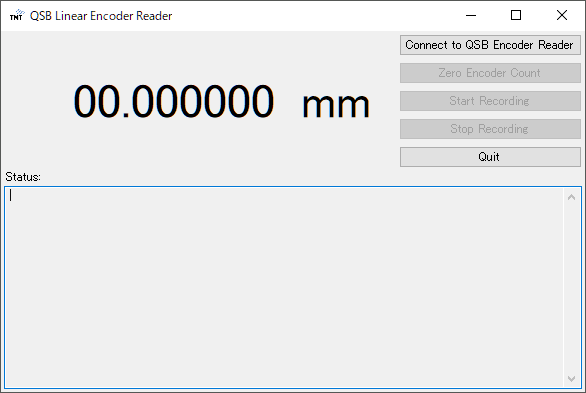
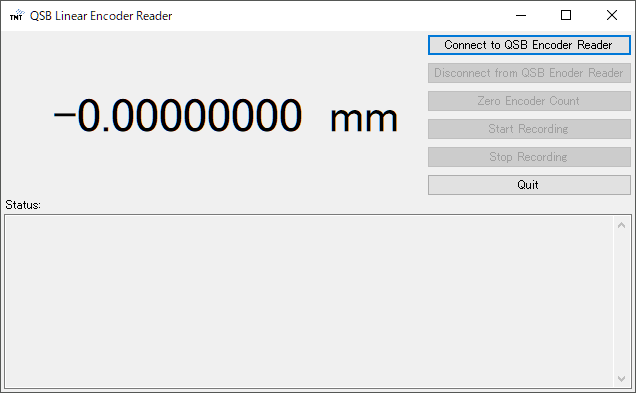
Updated the document.

diff --git a/QSBLinearEncoderReader/MainForm.Designer.cs b/QSBLinearEncoderReader/MainForm.Designer.cs
@@ -88,7 +88,7 @@
             this.labelEncoderReadingUnit.Padding = new System.Windows.Forms.Padding(0, 10, 10, 10);
             this.tableLayoutPanelMain.SetRowSpan(this.labelEncoderReadingUnit, 6);
             this.labelEncoderReadingUnit.Size = new System.Drawing.Size(100, 168);
-            this.labelEncoderReadingUnit.TabIndex = 1;
+            this.labelEncoderReadingUnit.TabIndex = 0;
             this.labelEncoderReadingUnit.Text = "mm";
             this.labelEncoderReadingUnit.TextAlign = System.Drawing.ContentAlignment.MiddleLeft;
             // 
@@ -115,7 +115,7 @@
             this.buttonConnect.Location = new System.Drawing.Point(426, 3);
             this.buttonConnect.Name = "buttonConnect";
             this.buttonConnect.Size = new System.Drawing.Size(205, 22);
-            this.buttonConnect.TabIndex = 2;
+            this.buttonConnect.TabIndex = 0;
             this.buttonConnect.Text = "Connect to QSB Encoder Reader";
             this.buttonConnect.UseVisualStyleBackColor = true;
             this.buttonConnect.Click += new System.EventHandler(this.buttonConnect_Click);
@@ -129,7 +129,7 @@
             this.buttonSetZero.Location = new System.Drawing.Point(426, 59);
             this.buttonSetZero.Name = "buttonSetZero";
             this.buttonSetZero.Size = new System.Drawing.Size(205, 22);
-            this.buttonSetZero.TabIndex = 3;
+            this.buttonSetZero.TabIndex = 2;
             this.buttonSetZero.Text = "Zero Encoder Count";
             this.buttonSetZero.UseVisualStyleBackColor = true;
             this.buttonSetZero.Click += new System.EventHandler(this.buttonSetZero_Click);
@@ -143,7 +143,7 @@
             this.buttonStartRecording.Location = new System.Drawing.Point(426, 87);
             this.buttonStartRecording.Name = "buttonStartRecording";
             this.buttonStartRecording.Size = new System.Drawing.Size(205, 22);
-            this.buttonStartRecording.TabIndex = 4;
+            this.buttonStartRecording.TabIndex = 3;
             this.buttonStartRecording.Text = "Start Recording";
             this.buttonStartRecording.UseVisualStyleBackColor = true;
             this.buttonStartRecording.Click += new System.EventHandler(this.buttonStartRecording_Click);
@@ -157,7 +157,7 @@
             this.buttonStopRecording.Location = new System.Drawing.Point(426, 115);
             this.buttonStopRecording.Name = "buttonStopRecording";
             this.buttonStopRecording.Size = new System.Drawing.Size(205, 22);
-            this.buttonStopRecording.TabIndex = 5;
+            this.buttonStopRecording.TabIndex = 4;
             this.buttonStopRecording.Text = "Stop Recording";
             this.buttonStopRecording.UseVisualStyleBackColor = true;
             this.buttonStopRecording.Click += new System.EventHandler(this.buttonStopRecording_Click);
@@ -172,7 +172,7 @@
             this.buttonQuit.Location = new System.Drawing.Point(426, 143);
             this.buttonQuit.Name = "buttonQuit";
             this.buttonQuit.Size = new System.Drawing.Size(205, 22);
-            this.buttonQuit.TabIndex = 6;
+            this.buttonQuit.TabIndex = 5;
             this.buttonQuit.Text = "Quit";
             this.buttonQuit.UseVisualStyleBackColor = true;
             this.buttonQuit.Click += new System.EventHandler(this.buttonQuit_Click);
@@ -187,7 +187,7 @@
             this.textBoxStatus.ReadOnly = true;
             this.textBoxStatus.ScrollBars = System.Windows.Forms.ScrollBars.Vertical;
             this.textBoxStatus.Size = new System.Drawing.Size(628, 175);
-            this.textBoxStatus.TabIndex = 8;
+            this.textBoxStatus.TabIndex = 6;
             // 
             // labelStatus
             // 
@@ -213,7 +213,7 @@
             this.buttonDisconnect.Location = new System.Drawing.Point(426, 31);
             this.buttonDisconnect.Name = "buttonDisconnect";
             this.buttonDisconnect.Size = new System.Drawing.Size(205, 22);
-            this.buttonDisconnect.TabIndex = 9;
+            this.buttonDisconnect.TabIndex = 1;
             this.buttonDisconnect.Text = "Disconnect from QSB Enoder Reader";
             this.buttonDisconnect.UseVisualStyleBackColor = true;
             this.buttonDisconnect.Click += new System.EventHandler(this.buttonDisconnect_Click);

diff --git a/README.md b/README.md
@@ -1,40 +1,54 @@
 # QSB Linear Encoder Reader
 
-This is a simple Windows application that reads an encoder count through [US Digital QSB-D](https://www.usdigital.com/products/accessories/interfaces/usb/qsb/) and show it in GUI.
+This is a simple Windows application that reads an encoder count through [US Digital QSB-D](https://www.usdigital.com/products/accessories/interfaces/usb/qsb/) and shows it in GUI.
 
-![](images/screenshot.png)
+<img src="images/screenshot.png" width="318" height="197">
+
+<img src="images/qsb_d.jpeg" width="200" height="222">
 
 ## Insallation
 
-Go to [Releases](https://github.com/tmtsoftware/m1cs-qsb-linear-encoder-reader/releases) page and download the zip file of the latest version.
+Go to the [Releases](https://github.com/tmtsoftware/m1cs-qsb-linear-encoder-reader/releases) page and download the zip file of the latest version.
 
-![](images/download_the_latest_version.png)
+<img src="images/download_the_latest_version.png" width="342" height="211">
 
-Extract the zip file, run `setup.exe` in it and follow the instruction to complete the installation. 
+Extract the zip file, run `setup.exe` in it and follow the instructions to complete the installation. 
 You may be asked about the security, but you should ignore them.
 
-When the installation process is copmleted, the application automatically launches.
-If you want to launc it again, open the Windows menu and click `TMT International Observatory` - `QSB Linear Encoder Reader`.
+When the installation process is copmlete, the application automatically launches.
+If you want to launc it again, select `TMT International Observatory` - `QSB Linear Encoder Reader` in the Windows menu.
 
-![](images/windows_menu.png)
+<img src="images/windows_menu.png" width="158" height="308">
 
 ## Usage
 
 ### Prerequisite
 
-Connect your [QSB-D](https://www.usdigital.com/products/accessories/interfaces/usb/qsb/) to an USB port of your computer.
-Please make sure that the baud rate setting of QSB-D is the same as factory default (230400 bits/sec).
+Before launching this application, connect your [QSB-D](https://www.usdigital.com/products/accessories/interfaces/usb/qsb/) to an USB port of your computer.
+Then, check the port name of the QSB-D with [US Digital Device Explorer](https://www.usdigital.com/support/resources/downloads/software/qsb-software/).
+Typically, it is "COMx" where "x" is an integer number (e.g. COM4).
+
+Please make sure that the baud rate setting of your QSB-D is the same as factory default (230400 bits/sec).
 If you have ever changed the baud rate from the factory default, revert the setting by using [US Digital Device Explorer](https://www.usdigital.com/support/resources/downloads/software/qsb-software/).
 
 ### Application usage
 
-Once you launch the application, click `Connect to QSB Encoder Reader`. The application starts to continuously read the position from the encoder.
+Once the main application window is shown, click `Connect to QSB Encoder Reader`.
 
-Press `Zero Encoder Count` button to set the current positoin as zero.
+<img src="images/init_screen.png" width="318" height="197">
+
+In the "Connect to QSB Encoder Reader" dialog, select an appropriate port name in `COM Port:`, set other configuratoin items accordingly, and press the `Connect` button.
+
+<img src="images/connect_dialog.png">
+
+If the connection to your QSB-D is successful, the application starts to continuously read the position from the encoder and show it in the main window.
+
+<img src="images/screenshot.png" width="318" height="197">
+
+Press `Zero Encoder Count` button to set the current position as zero.
 
 Press `Start Recording` button to save the encoder readings in a CSV file. It will ask you which CSV file to save. You can stop recording by pressing `Stop recording` button.
 
-![](images/init_screen.png)
 
 ## License
 
@@ -45,12 +59,12 @@ They were copied from [US Digital website](https://www.usdigital.com/support/res
 
 ## Developer information
 
-This chapter includes information for software developer who modifies the code and release new versions.
+This chapter includes information for software developers who may modify the code and release new versions.
 
 ### Development environment
 
 The programing language of this software is C#. It is hightly recommended to use
-Visual Studio 2022 (or higher) for software development. The explanation below assumes
+Visual Studio 2022 (or newer) for software development. Instructions below assume
 that you have Visual Studio installed in your computer.
 
 ### Open the latest source code with Visual Studio
@@ -123,5 +137,4 @@ Now your new released version must appear in https://github.com/tmtsoftware/m1cs
 
 ## TODO
 
- * Allow the user to select COM port.
- * Remove hard-coded configuration (quadrature mode and encoder resolution) and allow the user to set them.
+ * Support the recording at the maximum rate (512 Hz)
